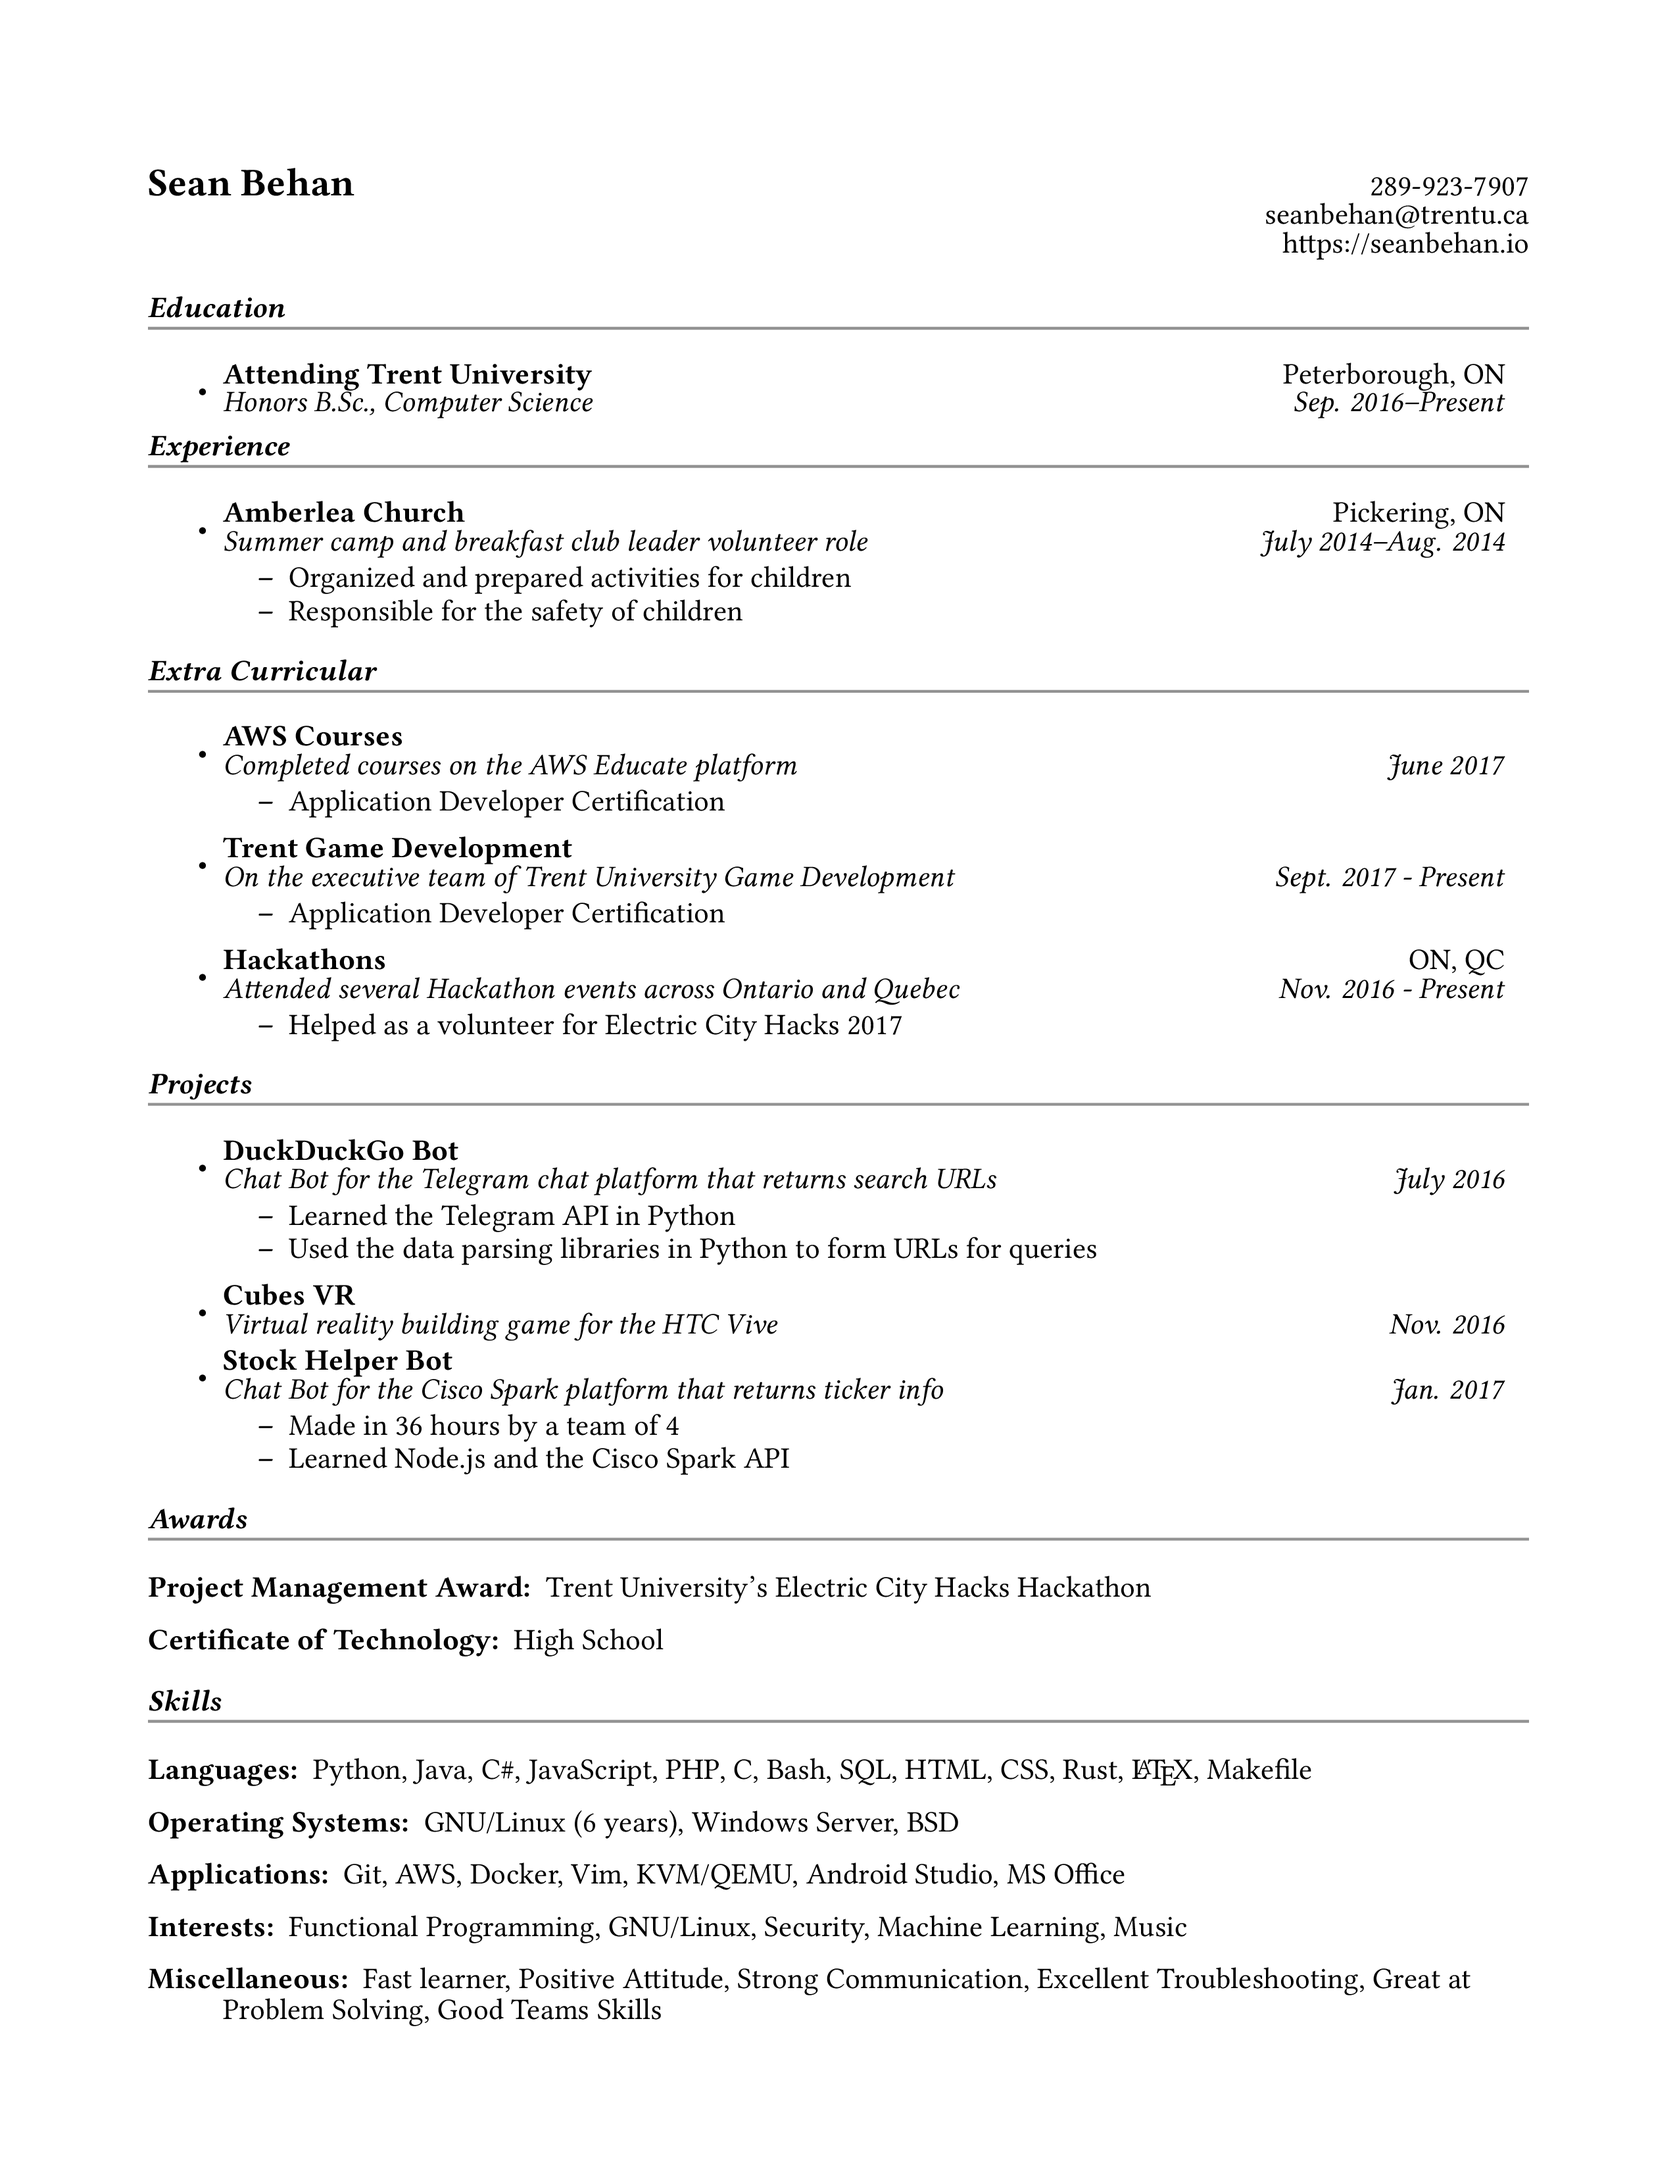
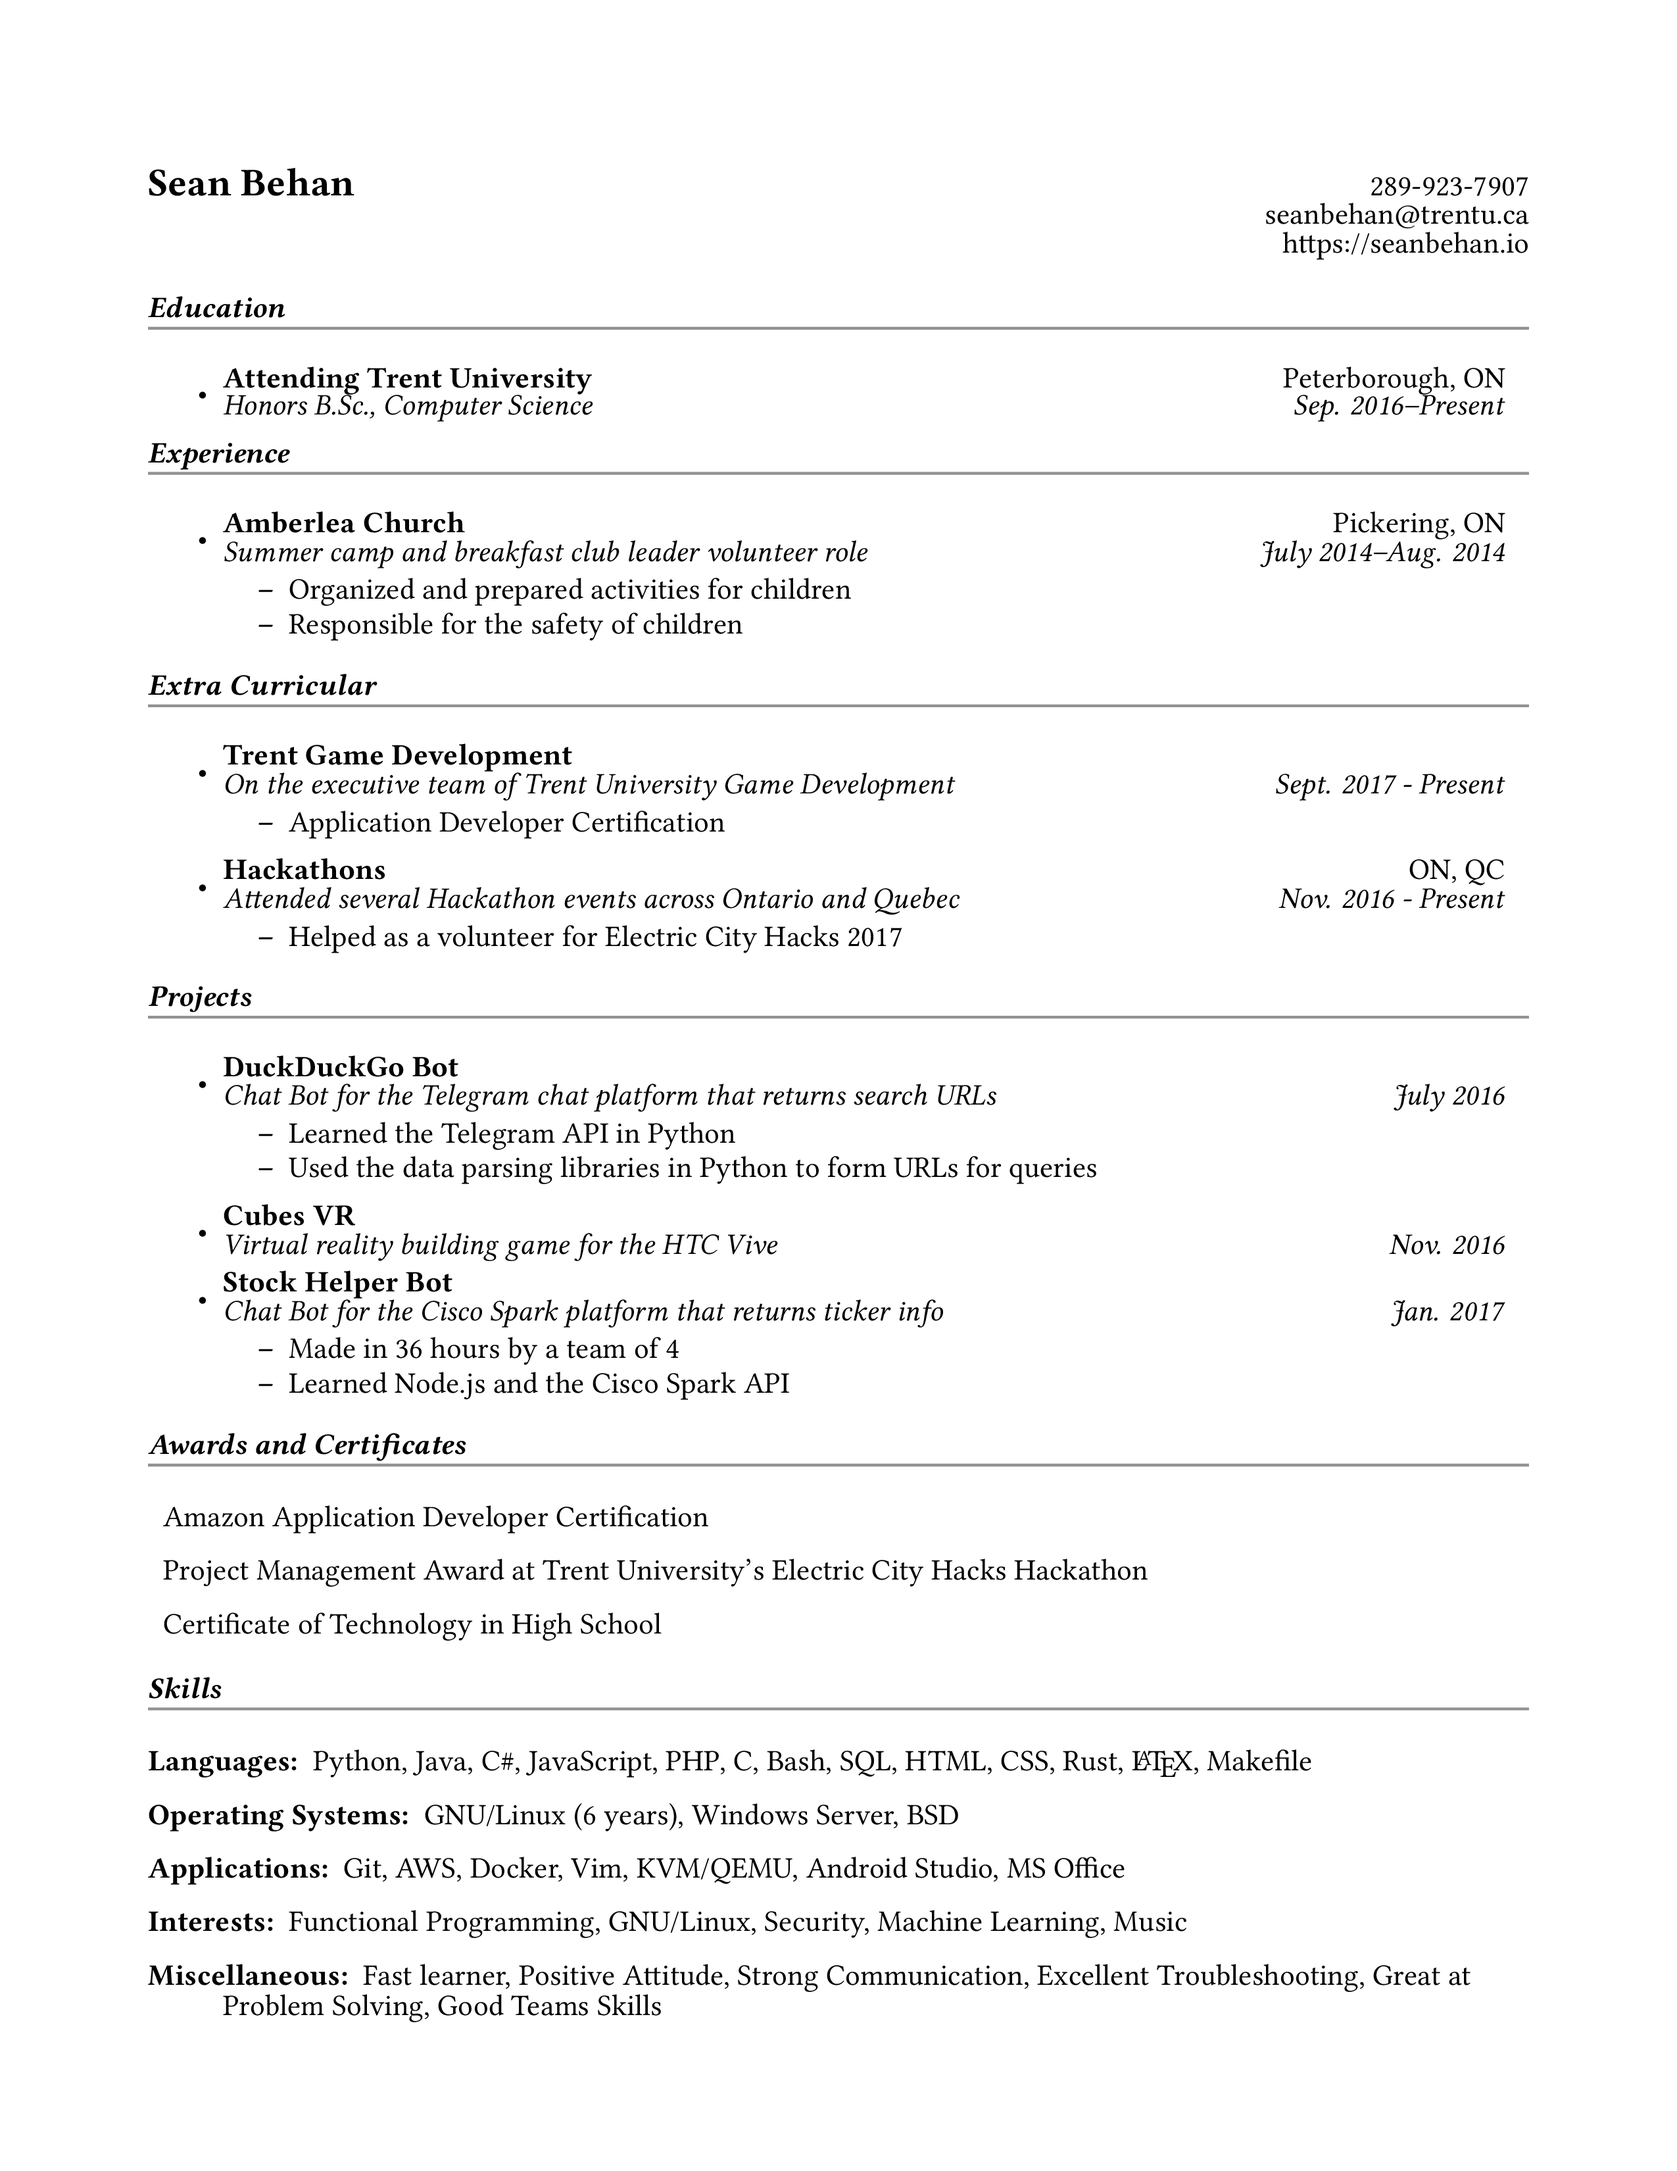
updated resume

diff --git a/resume.tex b/resume.tex
@@ -86,11 +86,6 @@
 \mysection{Extra Curricular}
 \begin{itemize}
     \item
-        \ressubheading{AWS Courses}{}{Completed courses on the AWS Educate platform}{June 2017}
-        \begin{itemize}
-                \resitem{Application Developer Certification}
-        \end{itemize}
-    \item
         \ressubheading{Trent Game Development}{}{On the executive team of 
         Trent University Game Development}{Sept. 2017 - Present}
         \begin{itemize}
@@ -126,14 +121,14 @@
         \end{itemize}
 \end{itemize}
 
-\mysection{Awards}
+\mysection{Awards and Certificates}
 %\begin{tabular*}{6.5in}{l@{\extracolsep{\fill}}r}
 %\vspace{-6pt} \\
 %\begin{tabularx}{\textwidth}{Xl}
 \begin{description}
-    \item[Project Management Award:]
-        Trent University's Electric City Hacks Hackathon
-    \item[Certificate of Technology:] High School
+    \item Amazon Application Developer Certification
+    \item Project Management Award at Trent University's Electric City Hacks Hackathon
+    \item Certificate of Technology in High School
 \end{description}
 %Project Management Award & Trent University's hackathon\\
 %Certificate of Technology & High School\\
